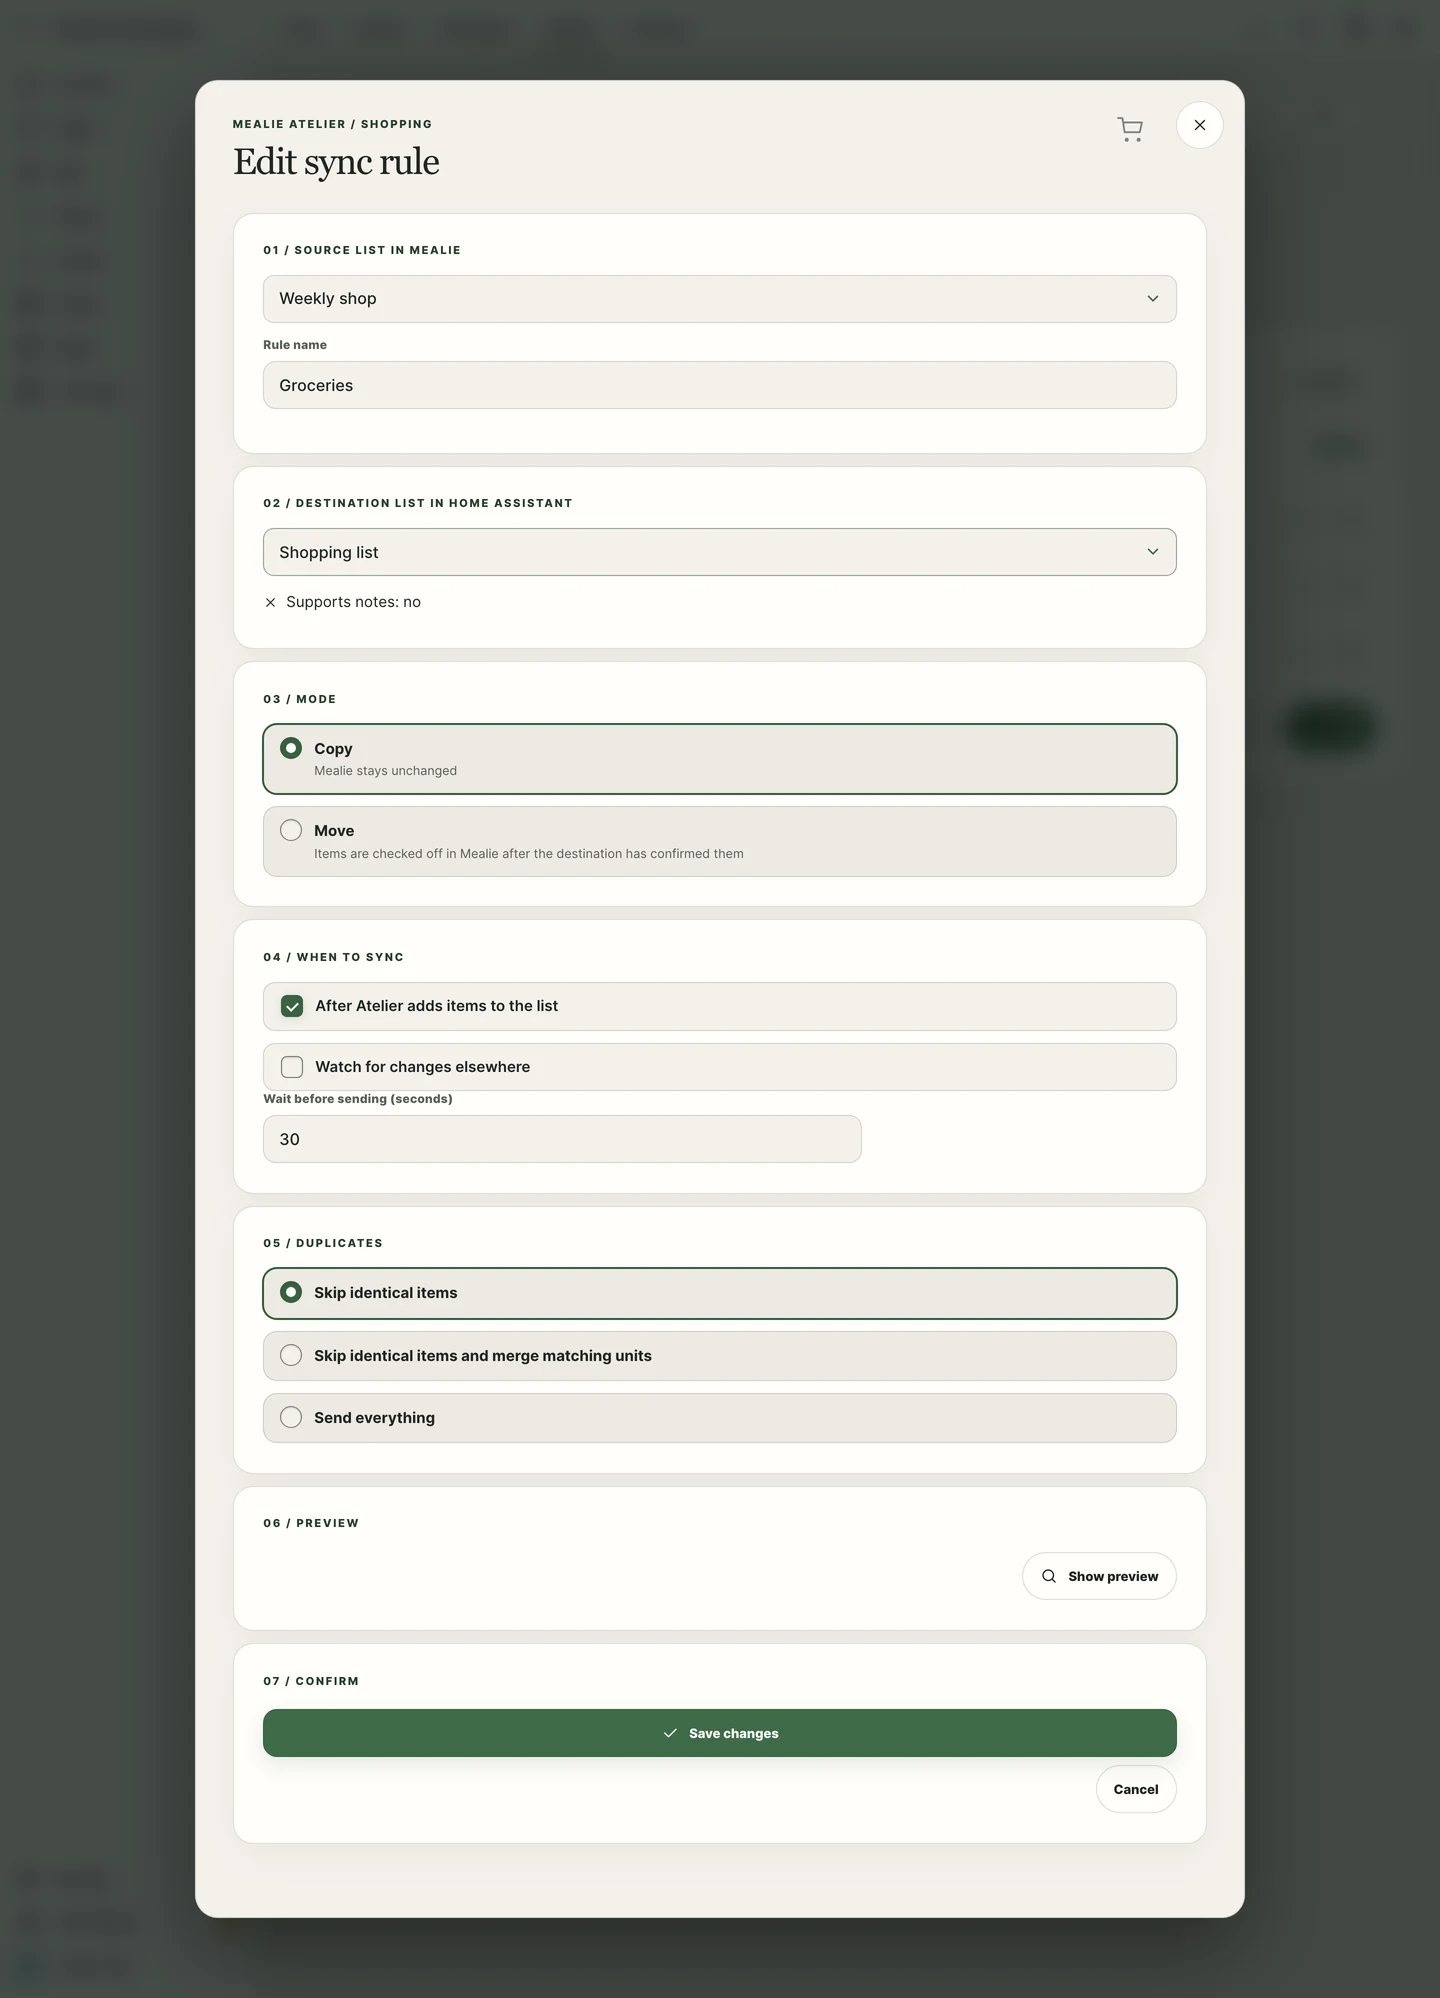
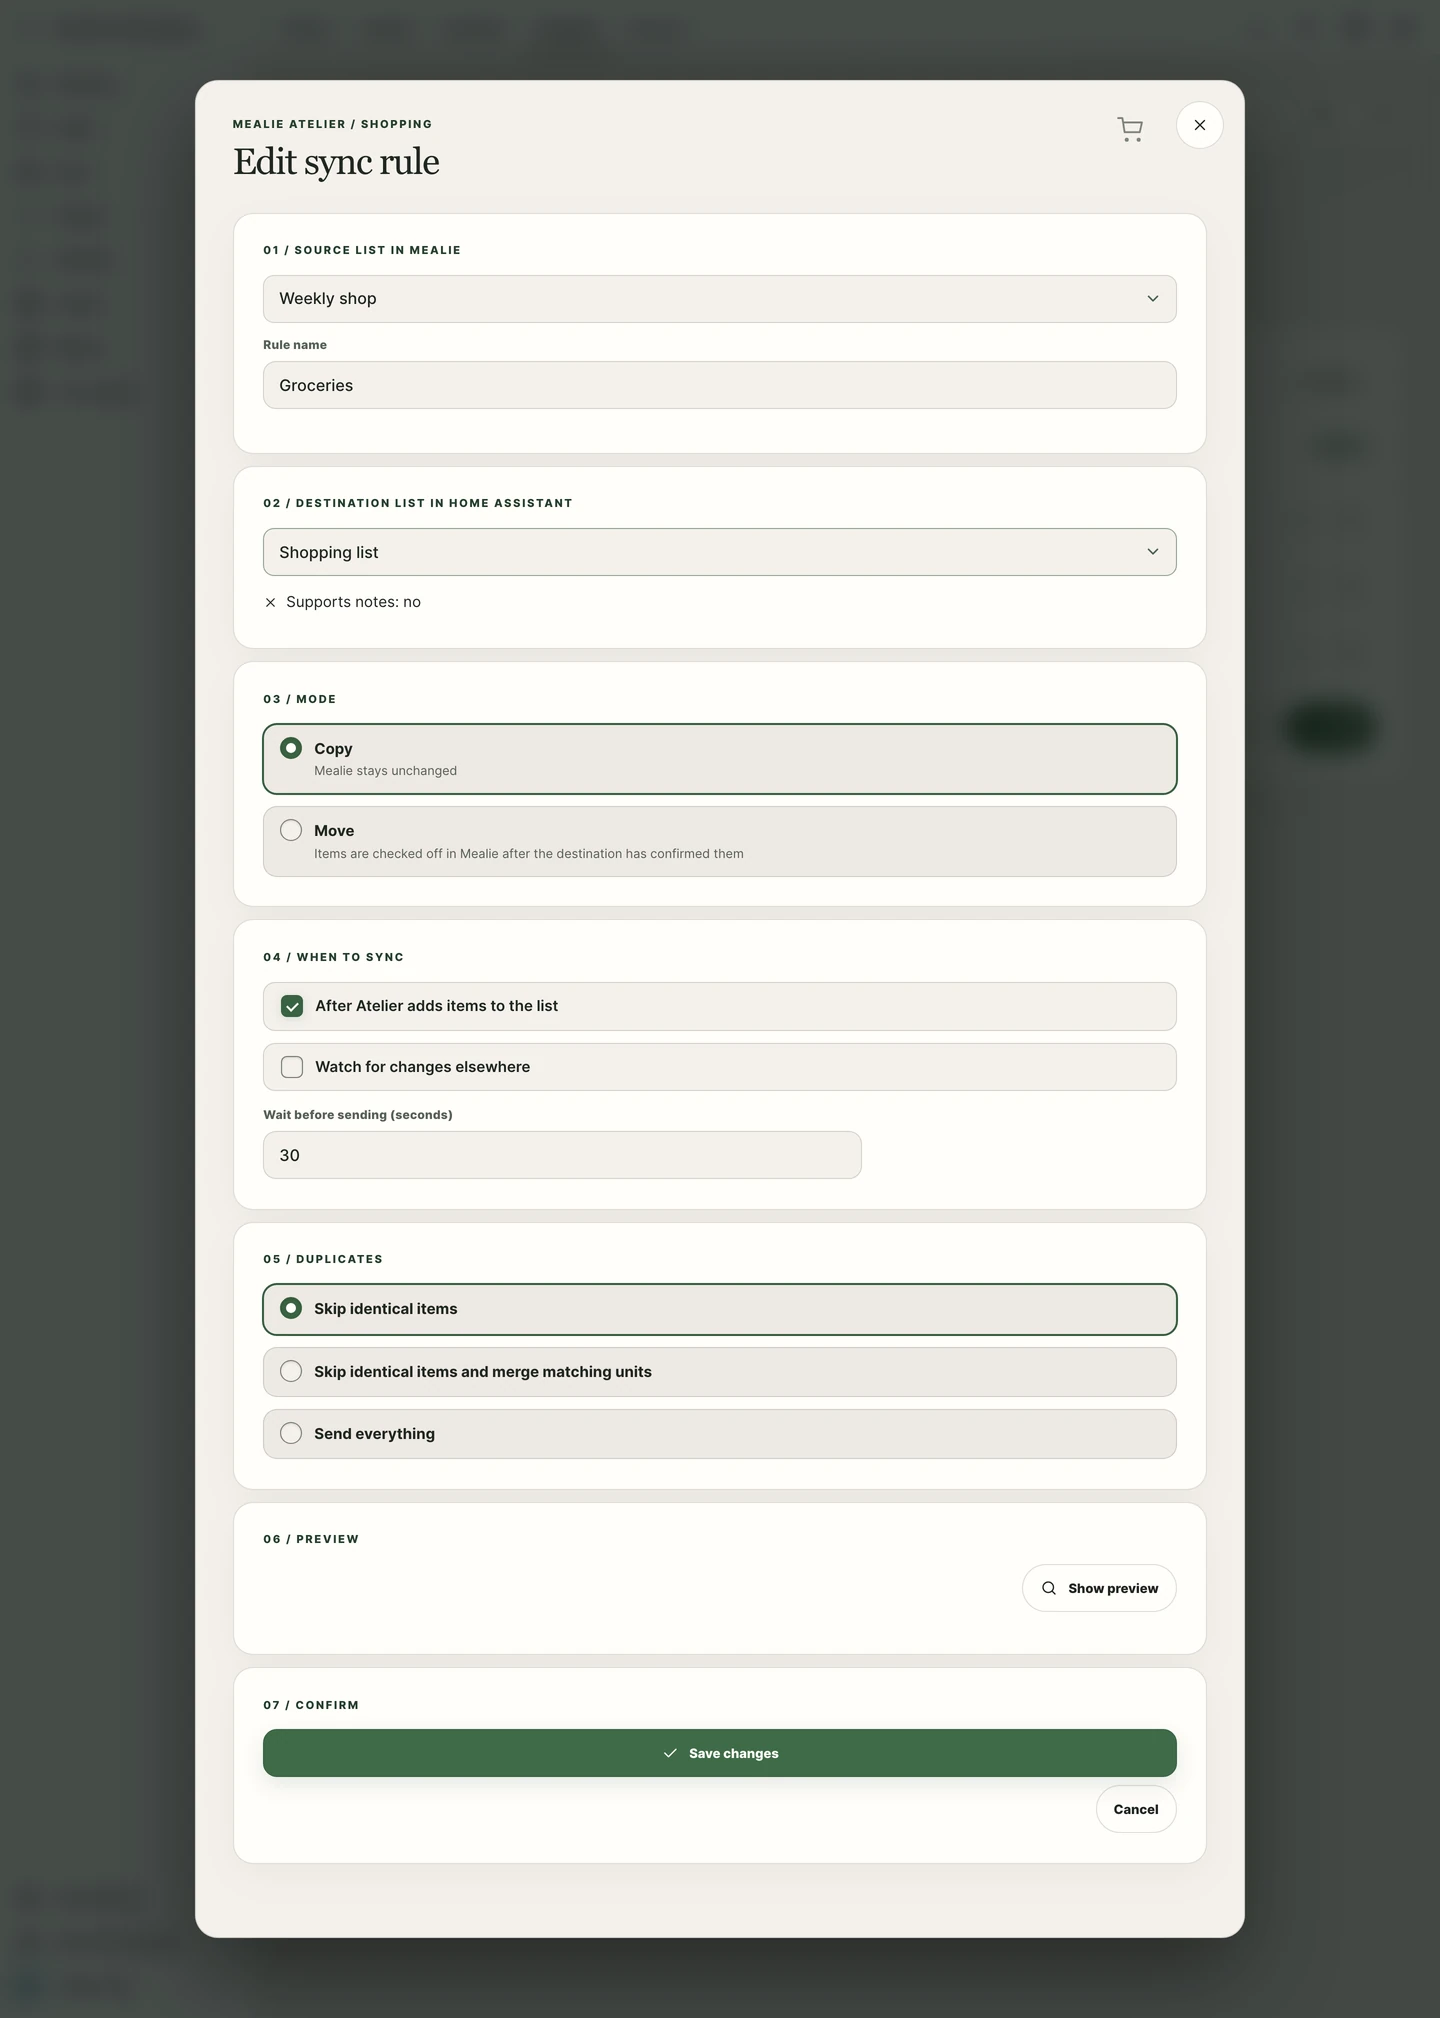
Fit the guide cooking shots to the bounded dialog and recapture the sync rule editor with the delay gap

diff --git a/tests/live/capture_guides.py b/tests/live/capture_guides.py
@@ -921,6 +921,25 @@ def shot_recipe(browser: Browser) -> None:
     context.close()
 
 
+STAGE = ".cook-content > .cook-stage"
+
+
+def fit_cook(page: Page, name: str, start: int, limit: int) -> None:
+    """The cooking dialog is a bounded box now: grow the window until the step text needs no scrolling."""
+    set_height(page, name, start)
+    for _ in range(10):
+        extra = page.evaluate(
+            "([deepSrc, sel]) => { const deep = new Function(deepSrc + 'return deep;')(); "
+            "const el = deep(sel); return el ? el.scrollHeight - el.clientHeight : 0; }",
+            [DEEP, STAGE],
+        )
+        height = page.viewport_size["height"]
+        print("fit_cook", name, height, "extra", extra)
+        if extra <= 1 or height >= limit:
+            return
+        set_height(page, name, min(limit, height + max(extra, 2) + 2))
+
+
 def shot_cook(browser: Browser) -> None:
     context, page = ha_page(browser, "kochmodus-dunkel", "dark")
     open_dashboard(page, "atelier-shots-dark/recipes")
@@ -929,7 +948,7 @@ def shot_cook(browser: Browser) -> None:
     page.locator("[data-action='cook-next'] >> visible=true").wait_for()
     settle_ha(page)
     # The dialog is as tall as the window allows: grow the window until the footer buttons are whole in view.
-    grow_to_fit(page, "kochmodus-dunkel", ".modal[role='dialog']")
+    fit_cook(page, "kochmodus-dunkel", 1050, 1200)
     snap(page, "kochmodus-dunkel")
     context.close()
 
@@ -941,22 +960,10 @@ def shot_cook_phone(browser: Browser) -> None:
     page.locator("[data-action='cook-start'] >> visible=true").click()
     page.locator("[data-action='cook-next'] >> visible=true").wait_for()
     settle_ha(page)
-    # Top of the dialog: photo, progress, the "keep awake" checkbox and the step. The dialog scrolls and its
-    # footer (Zurück, Zum Rezept, Weiter) is sticky, so the window height is chosen that the footer starts
-    # right where the tool tray begins: no half row hides under the footer.
+    # Top of the dialog: photo, progress, the "keep awake" checkbox and the step. The dialog is bounded, so
+    # the window grows until the step text needs no scrolling.
     modal = page.locator(".modal[role='dialog'] >> visible=true").first
-    need = modal.evaluate(
-        """modal => {
-            const box = modal.getBoundingClientRect();
-            const tray = modal.querySelector('.cook-utility').getBoundingClientRect();
-            const footer = [...modal.querySelectorAll('*')].find((el) => {
-                const css = getComputedStyle(el);
-                return css.position === 'sticky' && css.bottom !== 'auto';
-            });
-            return (tray.top - box.top + modal.scrollTop) - 18 + footer.getBoundingClientRect().height;
-        }"""
-    )
-    fit_modal_height(page, "kochmodus-handy", need)
+    fit_cook(page, "kochmodus-handy", 749, 940)
     modal.evaluate("modal => { modal.scrollTop = 0; }")
     page.wait_for_timeout(600)
     snap(page, "kochmodus-handy")
@@ -1474,8 +1481,7 @@ def shots_web(browser: Browser) -> None:
             web_settle(page)
             # As in the Home Assistant shot: a window tall enough for the dialog at its full height (1040 px).
             # In a 900 px window the dialog is squeezed to 828 px and its header rows nearly touch.
-            set_height(page, "web-app-kochmodus", 1160)
-            grow_to_fit(page, "web-app-kochmodus", ".modal[role='dialog']")
+            fit_cook(page, "web-app-kochmodus", 1050, 1200)
 
         def sync(page: Page) -> None:
             web_nav(page, "Einkaufsliste")

diff --git a/tests/test_guide_cook_fit.py b/tests/test_guide_cook_fit.py
@@ -1,0 +1,60 @@
+"""The guide capture grows the window until the bounded cooking dialog shows the whole step."""
+
+from __future__ import annotations
+
+import importlib
+import sys
+from pathlib import Path
+
+import pytest
+
+pytest.importorskip("PIL")
+pytest.importorskip("playwright")
+
+LIVE = Path(__file__).parent / "live"
+
+
+@pytest.fixture(scope="module")
+def guides(tmp_path_factory):
+    sys.path.insert(0, str(LIVE))
+    saved = sys.argv
+    sys.argv = ["capture_guides.py", str(tmp_path_factory.mktemp("guides"))]
+    try:
+        yield importlib.import_module("capture_guides")
+    finally:
+        sys.argv = saved
+        sys.path.remove(str(LIVE))
+
+
+class FakePage:
+    """A page whose step stage overflows by `overflow` pixels at `base` height and shrinks as it grows."""
+
+    def __init__(self, base: int, overflow: int) -> None:
+        self.viewport_size = {"width": 390, "height": base}
+        self.base = base
+        self.overflow = overflow
+
+    def set_viewport_size(self, size: dict) -> None:
+        self.viewport_size = size
+
+    def wait_for_timeout(self, _ms: int) -> None:
+        pass
+
+    def evaluate(self, _script: str, args: list) -> int:
+        assert args[1] == ".cook-content > .cook-stage"
+        return max(0, self.overflow - (self.viewport_size["height"] - self.base))
+
+
+def test_window_grows_until_the_step_needs_no_scrolling(guides) -> None:
+    guides.SIZES["kochmodus-handy"] = (780, 1500)
+    page = FakePage(749, 113)
+    guides.fit_cook(page, "kochmodus-handy", 749, 940)
+    assert 749 + 113 <= page.viewport_size["height"] <= 940
+    assert guides.SIZES["kochmodus-handy"][1] == round(page.viewport_size["height"] * 780 / 390)
+
+
+def test_window_stops_at_the_limit(guides) -> None:
+    guides.SIZES["kochmodus-dunkel"] = (1600, 1100)
+    page = FakePage(1050, 5000)
+    guides.fit_cook(page, "kochmodus-dunkel", 1050, 1200)
+    assert page.viewport_size["height"] == 1200

diff --git a/CHANGELOG.md b/CHANGELOG.md
@@ -20,6 +20,7 @@ All notable changes to the Mealie Atelier Bridge are documented here. The format
 - German texts: re-authentication uses one wording ("neu anmelden") in the dialog title, the success message and the error text.
 - German texts: the read-only help says "aber", and the setup description keeps its "replaces nothing" half sentence without a comma before "und".
 - Docs: the shopping sync guide points to Bring! in the standalone web app, the tested destinations list no longer carries test notes, the manual install says where the folder comes from, the Resources step no longer asks for Advanced mode (removed in Home Assistant 2026.6), the restart note matches the Marketplace, and American spelling.
+- Docs: the Smart Shopping Sync rule editor screenshot shows the gap above the delay field, and the guide capture script fits the bounded cooking dialog so the step text is never cut.
 
 ## [0.12.0] - 2026-10-31
 
